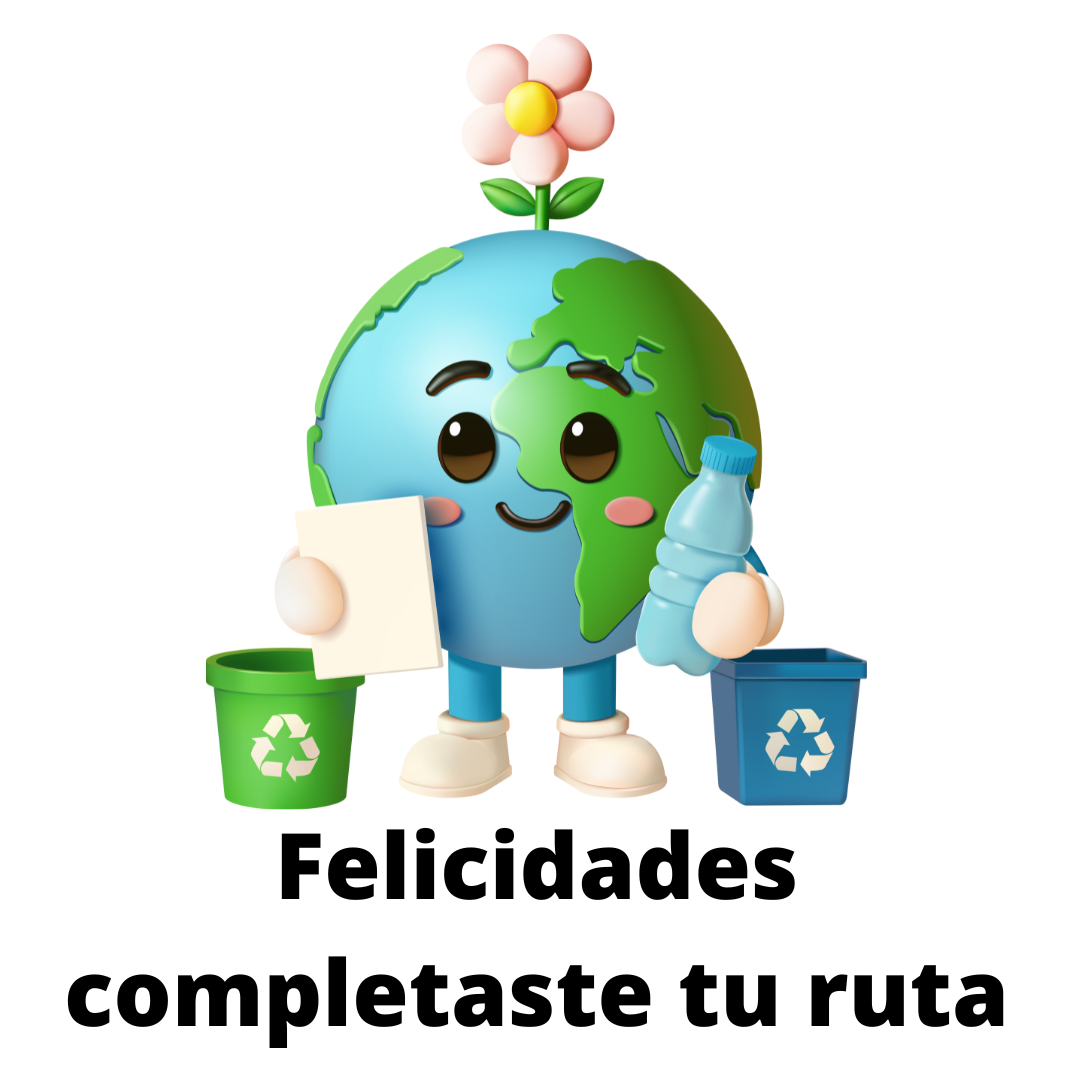
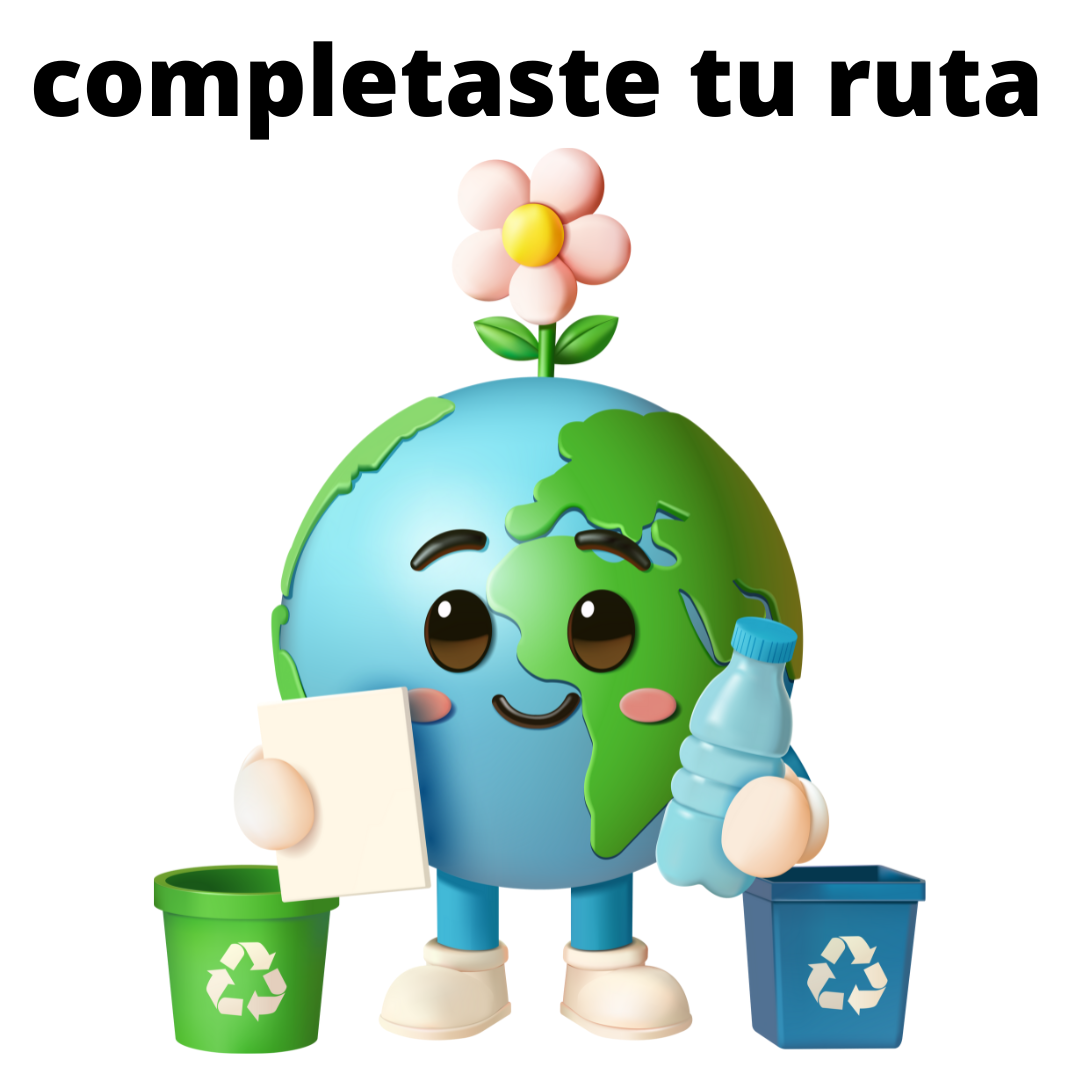
feat: Actualizar imágenes y modificar texto en las pantallas de navegación y felicitaciones

diff --git a/lib/screens/home_screen.dart b/lib/screens/home_screen.dart
@@ -37,7 +37,7 @@ class _HomeScreenState extends State<HomeScreen> {
         // TODO: El backend debe enviar el ID de la ruta asignada al usuario
         if (rutas.isNotEmpty) {
           setState(() {
-            rutaAsignada = RouteModel.fromJson(rutas[4]);
+            rutaAsignada = RouteModel.fromJson(rutas[1]);
             isLoading = false;
           });
         } else {
@@ -220,7 +220,7 @@ class _HomeScreenState extends State<HomeScreen> {
             ),
             children: [
               TextSpan(
-                text: 'Hola Agustin',
+                text: 'Hola Luis Romero',
                 style: TextStyle(color: Color(0xFF3C8F4F)),
               ),
             ],

diff --git a/lib/screens/congratulations_screen.dart b/lib/screens/congratulations_screen.dart
@@ -53,18 +53,6 @@ class _CongratulationsScreenState extends State<CongratulationsScreen> {
           textAlign: TextAlign.center,
         ),
         
-        const SizedBox(height: 16),
-        
-        // Subtítulo
-        Text(
-          'Completaste la ruta:\n${widget.route.name}',
-          style: const TextStyle(
-            fontSize: 20,
-            fontWeight: FontWeight.w500,
-            color: Colors.black87,
-          ),
-          textAlign: TextAlign.center,
-        ),
         
         const SizedBox(height: 48),
         

diff --git a/lib/screens/navigation_screen.dart b/lib/screens/navigation_screen.dart
@@ -37,7 +37,7 @@ class _NavigationScreenState extends State<NavigationScreen> {
   String _lastSyncTime = 'Sin sincronizar';
   Timer? _locationTimer;
   bool _isTrackingPaused = false;
-  static const String _userId = '6918c21792cd6492dbd79515'; // Agustin Apaza
+  static const String _userId = '6918e49c92cd6492dbd7953c'; // Agustin Apaza
   
   // Detección de desviación de ruta
   bool _isOffRoute = false;
